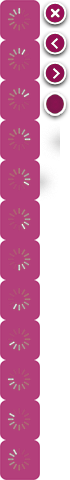
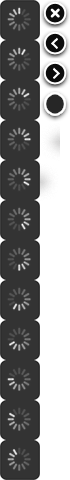
design ++

diff --git a/public/stylesheets/application.css b/public/stylesheets/application.css
@@ -25,7 +25,6 @@ mark { background-color:#ff9; color:#000; font-style:italic; font-weight:bold; }
 del { text-decoration: line-through; }
 abbr[title], dfn[title] { border-bottom:1px dotted; cursor:help; }
 table { border-collapse:collapse; border-spacing:0; }
-/*hr { display:block; height:1px; border:0; border-top:1px solid #ccc; margin:1em 0; padding:0; }*/
 
 hr {
 	height: 1px;
@@ -33,9 +32,10 @@ hr {
 	clear: both;
 	border: none;
 	background: #555;
-	background: -moz-linear-gradient(left, #222, #555, #222);
+	background: -moz-linear-gradient(left, #333, #575757, #333);
 	margin-bottom: 32px;
 }
+
 input, select { vertical-align:middle; }
 
 body { font:13px/1.231 'Segoe UI', Arial, sans-serif; }
@@ -46,9 +46,7 @@ h1,h2,h3,h4,h5,h6 { font-weight: bold; }
 html { overflow-y: scroll; }
 
 a:hover, a:active { outline: none; }
-/*a:link { color: #CECECE; }*/
 a:link, a:visited { color: #999; text-decoration: none; }
-/*a:active { color: lightblue; position: relative; top: 1px; }*/
 a:hover { color: #efefef; }
 
 ul, ol { margin-left: 20px; }
@@ -56,7 +54,6 @@ ol { list-style-type: decimal; }
 
 ol.articles {
 	list-style-type: upper-roman;
-/*	list-style-position: inside;*/
 	padding: 0px;
 	margin-left: 32px;
 }
@@ -127,6 +124,10 @@ button { width: auto; overflow: visible; }
 
 .delim {
 	color: #333;
+}
+
+.clear {
+	clear: both;
 }
 
 p {
@@ -270,28 +271,8 @@ body {
 	padding-bottom: 32px;
 	padding-top: 32px;
 	clear: both;
-/*	background-color: #090909;*/
-	background-color: #222;
+	background-color: #333;
 	min-height: 25em;
-/*	background-image: -webkit-gradient(
-		linear,
-		left bottom,
-		left top,
-		color-stop(0.1, #070707),
-		color-stop(0.5, #111),
-		color-stop(0.9, #0F0F0F)
-		);
-	background-image: -moz-linear-gradient(
-		center bottom,
-			#000 50%,
-			#222
-		);*/
-/*	background-image: -moz-linear-gradient(
-		center bottom,
-		#070707 10%,
-		#111 50%,
-		#0F0F0F 90%
-		);*/
 }
 
 #body_content_left section {
@@ -306,8 +287,6 @@ body {
 
 #body_content_right, .right-section {
 	float: right;
-	/*	padding-top: 20px;*/
-/*	width: 320px;*/
 	width: 300px;
 }
 
@@ -321,7 +300,6 @@ body {
 }
 
 #projects .project-wrapper img {
-/*	visibility: hidden;*/
 	margin-bottom: 4px;
 	border-radius: 3px;
 }
@@ -422,7 +400,7 @@ body {
 }
 
 #follow-us a .action-button {
-	margin-left: 77px;
+	margin-left: 8px;
 }
 
 #copy {
@@ -459,13 +437,11 @@ body {
 	height: 450px;
 	-moz-box-shadow: 0px 0px 5px #000 inset;
 	-webkit-box-shadow: 0px 0px 5px #000 inset;
-	opacity: 0.7;
-	background: -moz-radial-gradient(rgba(0,0,0, 0.08), rgba(0,0,0,0.8) 98%) repeat scroll 0 0 transparent;
+	opacity: 1;
+	background: transparent;
 	border-radius: 3px;
-}
-
-#promo:hover .img-bg {
-	opacity: 0.4;
+	-moz-border-radius: 3px;
+	-webkit-border-radius: 3px;
 }
 
 #promo-action {
@@ -615,7 +591,6 @@ h2 {
 
 h3 {
 	font-size: 15px;
-/*	font-weight: normal;*/
 }
 
 h4 {
@@ -634,18 +609,12 @@ h4 {
 	float: right;
 }
 
-#calendar .content {
-}
-
-#calendar .datetime {
-	/*	float: left;*/
-}
-
 #calendar .title {
 	clear: both;
 	display: block;
 	padding: 5px 0px;
 }
+
 #blog_posts .blog_post .posted_at {
 	margin: 0px;
 	display: inline;
@@ -671,18 +640,16 @@ a.il {
 .button, .button:visited, .button:link,
 .pagination a, .pagination em, .pagination span
 {
-	background: #222 url(/images/design/button-overlay.png) repeat-x;
+	background: #777;
 	display: inline-block;
 	padding: 5px 10px 6px;
+	border: solid 1px #353535;
 	color: #fff;
 	text-decoration: none;
-	-moz-border-radius: 5px;
-	-webkit-border-radius: 5px;
-	border-radius: 5px;
-/*	-moz-box-shadow: 0 1px 3px rgba(0,0,0,0.3);
-	-webkit-box-shadow: 0 1px 3px rgba(0,0,0,0.3);*/
-	text-shadow: 0 -1px 1px rgba(0,0,0,0.25);
-	border-bottom: 1px solid rgba(0,0,0,0.25);
+	-moz-border-radius: 3px;
+	-webkit-border-radius: 3px;
+	border-radius: 3px;
+	text-shadow: 0 -1px 1px rgba(0,0,0,0.5);
 	position: relative;
 	cursor: pointer;
 }
@@ -699,8 +666,6 @@ a.il {
 	cursor: default;
 }
 
-/*.pagination a:hover, .button:hover { background-color: #111; color: #fff; }*/
-.button:active { top: 1px; }
 .small.button, .small.button:visited { font-size: 11px; }
 .button, .button:visited,
 .medium.button, .medium.button:visited { font-size: 13px;
@@ -720,26 +685,20 @@ a.il {
 .yellow.button, .yellow.button:visited { background-color: #ffb515; }
 .yellow.button:hover { background-color: #fc9200; }
 
-
 #promo-action .button {
-	margin-top: 30px;
+	margin-top: 32px;
 	outline-style: none;
 	padding: 12px 20px;
 	font-weight: lighter;
-	border: solid 1px transparent;
 }
 
-#promo-action .button:hover {
-/*	-moz-box-shadow: 0 0 5px 1px #2CA1E5;
-	-webkit-box-shadow: 0 0 5px 1px #2CA1E5;
-	box-shadow: 0 0 5px 1px #2CA1E5;*/
-	font-weight: normal;
-	border-top: solid 1px #111;
+a.button:hover {
+	background: #999;
+	border: solid 1px #444;
 }
 
 a.button:active {
-	-moz-box-shadow: 0 0 4px rgba(0, 0, 0, 0.8) inset;
-	border-color: #222;
+	background: #000;
 }
 
 #promo-action {

diff --git a/public/stylesheets/formatting.css b/public/stylesheets/formatting.css
@@ -1,6 +1,3 @@
-.discount {
-
-}
 
 .join-box {
 	float: left;
@@ -27,11 +24,11 @@
 }
 
 #supporter-promo  {
-	opacity: 0.3;
+	opacity: 0.5;
 }
 
 #supporter-promo:hover {
-	opacity: 0.9;
+	opacity: 1;
 }
 
 #supporter-promo:hover {
@@ -79,7 +76,6 @@ form th {
 }
 
 form td {
-/*	width: 80%;*/
 	padding: 5px 0;
 }
 
@@ -92,7 +88,6 @@ form td {
 	float: left;
 	margin-bottom: 50px;
 	margin-right: 20px;
-/*	background: #fff;*/
 }
 
 .support-box .banner {
@@ -120,10 +115,6 @@ form td {
 
 #sponzoring, #shop, #propagation {
 	height: 25em;
-}
-
-.clear {
-	clear: both;
 }
 
 form {

diff --git a/public/stylesheets/fancybox.css b/public/stylesheets/fancybox.css
@@ -256,7 +256,6 @@
 #fancybox-title {
 	font-family: Helvetica;
 	font-size: 12px;
-	text-align: left;
 	z-index: 1102;
 }
 
